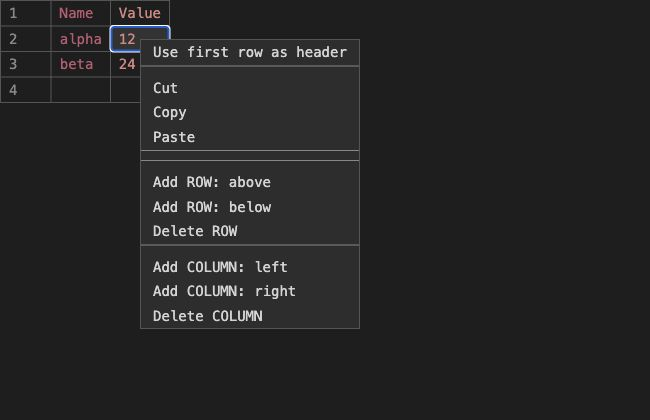
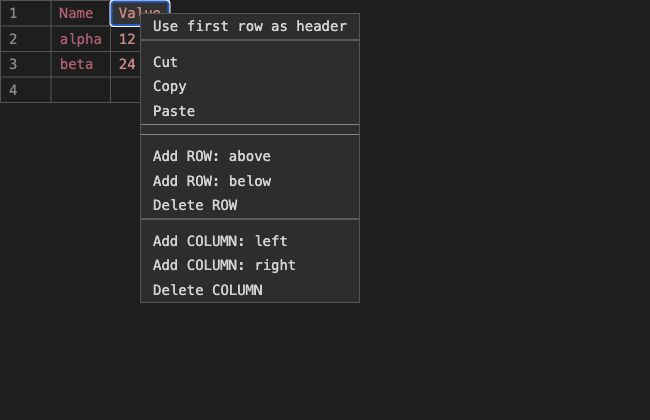
Restrict header context action to the first row

diff --git a/src/test/header-context-menu.test.ts b/src/test/header-context-menu.test.ts
@@ -45,19 +45,19 @@ async function applyHeader(host: Host, view: View, message: unknown) {
 describe('File header context action', () => {
   for (const separator of [',', '\t']) {
     for (const header of [false, true]) {
-      it(`toggles the file header from either column (${JSON.stringify(separator)}, header ${header})`, async () => {
+      it(`toggles the file header from either first-row column (${JSON.stringify(separator)}, header ${header})`, async () => {
         for (const column of [0, 1]) {
           const host = await createEditorHarness({ rows, separator, header });
           const view = createWebviewDom(host.panel.webview.html);
           const source = host.document.getText();
           const version = host.document.version;
           try {
-            await applyHeader(host, view, chooseHeader(view, 1, column, !header));
+            await applyHeader(host, view, chooseHeader(view, 0, column, !header));
             const next = createWebviewDom(host.panel.webview.html);
             try {
               assert.strictEqual(!!next.window.document.querySelector('thead'), !header);
               const reverse = header ? 'Use first row as header' : 'Treat first row as data';
-              assert.ok(openMenu(next, 1, column).some(item => item.textContent === reverse));
+              assert.ok(openMenu(next, 0, column).some(item => item.textContent === reverse));
             } finally { next.close(); }
             assert.strictEqual(host.document.getText(), source);
             assert.strictEqual(host.document.version, version);
@@ -79,7 +79,7 @@ describe('File header context action', () => {
       const view = createWebviewDom(host.panel.webview.html);
       try {
         assert.strictEqual(view.window.document.querySelector('thead'), null);
-        await applyHeader(host, view, chooseHeader(view, 1, 1, true));
+        await applyHeader(host, view, chooseHeader(view, 0, 1, true));
         assert.strictEqual(CsvEditorProvider.getHeaderForUri(context, host.document.uri as any), true);
         assert.strictEqual(CsvEditorProvider.hasHeaderOverride(context, host.document.uri as any), true);
         const next = createWebviewDom(host.panel.webview.html);
@@ -93,7 +93,7 @@ describe('File header context action', () => {
     const view = createWebviewDom(host.panel.webview.html);
     const other = await createEditorHarness({ rows, separator: '\t', header: true });
     try {
-      await applyHeader(host, view, chooseHeader(view, 1, 1, false));
+      await applyHeader(host, view, chooseHeader(view, 0, 1, false));
       const next = createWebviewDom(host.panel.webview.html);
       const untouched = createWebviewDom(other.panel.webview.html);
       try {
@@ -163,13 +163,39 @@ describe('File header context action', () => {
     } finally { view.close(); }
   });
 
-  it('offers the same action on header, body, serial-index and append cells', async () => {
+  it('keeps the first displayed row actionable when hidden metadata exceeds the file length', async () => {
     const host = await createEditorHarness({ rows, header: true });
-    const view = createWebviewDom(host.panel.webview.html);
+    const initial = createWebviewDom(host.panel.webview.html);
+    const controller = CsvEditorProvider.getActiveProvider()!;
+    const context = (controller as any).context;
     try {
-      for (const [row, column] of [[0, 1], [1, 0], [1, -1], [3, 1]]) {
-        assert.ok(openMenu(view, row, column).some(item => item.textContent === 'Treat first row as data'));
-      }
-    } finally { view.close(); }
+      await CsvEditorProvider.setHiddenRowsForUri(context, host.document.uri as any, 10);
+      controller.refresh();
+      await finishRefresh(host, initial);
+      const view = createWebviewDom(host.panel.webview.html);
+      try {
+        await applyHeader(host, view, chooseHeader(view, rows.length, 0, false));
+        assert.strictEqual(CsvEditorProvider.getHeaderForUri(context, host.document.uri as any), false);
+        assert.deepStrictEqual(host.rows(), rows);
+      } finally { view.close(); }
+    } finally { initial.close(); }
+  });
+
+  it('only offers the header action on first-row cells, with headers on or off', async () => {
+    for (const header of [true, false]) {
+      const host = await createEditorHarness({ rows, header });
+      const view = createWebviewDom(host.panel.webview.html);
+      try {
+        const label = header ? 'Treat first row as data' : 'Use first row as header';
+        for (const column of [0, 1]) {
+          assert.ok(openMenu(view, 0, column).some(item => item.textContent === label));
+        }
+        for (const [row, column] of [[1, 0], [1, -1], [2, 1], [3, 1]]) {
+          const items = openMenu(view, row, column);
+          assert.ok(!items.some(item => item.textContent === label));
+          assert.ok(items.some(item => item.textContent === 'Copy'), 'later cells retain normal context actions');
+        }
+      } finally { view.close(); }
+    }
   });
 });

diff --git a/src/CsvEditorProvider.ts b/src/CsvEditorProvider.ts
@@ -1462,6 +1462,7 @@ class CsvEditorController {
       nextChunkStart,
       hasRemoteChunks,
       headerEnabled: treatHeader,
+      firstVisibleRow: Math.min(Math.max(0, hiddenRows), data.length),
       mouseWheelZoomEnabled,
       mouseWheelZoomInvert
     });
@@ -1715,10 +1716,11 @@ class CsvEditorController {
     nextChunkStart: number;
     hasRemoteChunks: boolean;
     headerEnabled: boolean;
+    firstVisibleRow: number;
     mouseWheelZoomEnabled: boolean;
     mouseWheelZoomInvert: boolean;
   }): string {
-    const { webview, nonce, fontFamily, fontSize, cellPadding, separator, tableHtml, chunksJson, extraColumnColorCss, nextChunkStart, hasRemoteChunks, headerEnabled, mouseWheelZoomEnabled, mouseWheelZoomInvert } = args;
+    const { webview, nonce, fontFamily, fontSize, cellPadding, separator, tableHtml, chunksJson, extraColumnColorCss, nextChunkStart, hasRemoteChunks, headerEnabled, firstVisibleRow, mouseWheelZoomEnabled, mouseWheelZoomInvert } = args;
     const isDark = vscode.window.activeColorTheme.kind === vscode.ColorThemeKind.Dark;
     // Build script URI using file path for compatibility (older APIs may lack Uri.joinPath)
     const scriptUri = webview.asWebviewUri(
@@ -1930,7 +1932,7 @@ class CsvEditorController {
     </style>
   </head>
   <body>
-    <div id="csv-root" class="table-container" data-headerenabled="${headerEnabled ? '1' : '0'}" data-sepcode="${sepCode}" data-fontsize="${fontSize}" data-wheelzoomenabled="${mouseWheelZoomEnabled ? '1' : '0'}" data-wheelzoominvert="${mouseWheelZoomInvert ? '1' : '0'}" data-nextchunkstart="${nextChunkStart >= 0 ? nextChunkStart : ''}" data-hasmorechunks="${hasRemoteChunks ? '1' : '0'}">
+    <div id="csv-root" class="table-container" data-firstrow="${firstVisibleRow}" data-headerenabled="${headerEnabled ? '1' : '0'}" data-sepcode="${sepCode}" data-fontsize="${fontSize}" data-wheelzoomenabled="${mouseWheelZoomEnabled ? '1' : '0'}" data-wheelzoominvert="${mouseWheelZoomInvert ? '1' : '0'}" data-nextchunkstart="${nextChunkStart >= 0 ? nextChunkStart : ''}" data-hasmorechunks="${hasRemoteChunks ? '1' : '0'}">
       ${tableHtml}
     </div>
 

diff --git a/media/main.js b/media/main.js
@@ -387,11 +387,13 @@ const showContextMenu = (x, y, row, col) => {
     d.style.margin = '1px 0';
     contextMenu.appendChild(d);
   };
-  item(headerEnabled ? 'Treat first row as data' : 'Use first row as header', () => {
-    persistState();
-    vscode.postMessage({ type: 'setHeader', enabled: !headerEnabled });
-  });
-  divider();
+  if (row === Number(root?.dataset?.firstrow)) {
+    item(headerEnabled ? 'Treat first row as data' : 'Use first row as header', () => {
+      persistState();
+      vscode.postMessage({ type: 'setHeader', enabled: !headerEnabled });
+    });
+    divider();
+  }
   item('Cut', () => copySelectionToClipboard(true));
   item('Copy', () => copySelectionToClipboard());
   item('Paste', () => pasteFromClipboard());

diff --git a/README.md b/README.md
@@ -31,7 +31,7 @@ Working with CSV files shouldn’t be a chore. With CSV, you get:
 - **Interactive Editing:** Two modes — type to start a quick edit, or press Enter/double‑click for detail edit. Changes commit to the document when focus leaves the cell or CSV view; unsaved changes remain visible when you switch tabs.
 - **Smart Resizing:** Automatic calculation of column widths for improved readability.
 - **Dynamic Color Coding:** Visual cues based on data type help you quickly identify numbers, dates, booleans, and more (with opt‑in cool palette and theme-foreground mode settings).
-- **Sticky Headers:** Keep column titles in view as you scroll through large datasets. Right-click any cell and choose **Use first row as header** or **Treat first row as data** to toggle the header for that file. With leading metadata rows hidden, this applies to the first visible row; the CSV contents stay unchanged.
+- **Sticky Headers:** Keep column titles in view as you scroll through large datasets. Right-click a cell in the first visible row and choose **Use first row as header** or **Treat first row as data** to toggle the header for that file. With leading metadata rows hidden, this applies to the first visible row; the CSV contents stay unchanged.
 - **Enhanced Keyboard Navigation:** Navigate cells with arrows and Tab/Shift+Tab; quick edits can commit with arrow keys; `Ctrl/Cmd + A` selects all; `Ctrl/Cmd + C` copies selection.
 - **Advanced Multi-Cell Selection:** Easily select and copy blocks of data, then paste them elsewhere as properly formatted CSV.
 - **Add/Delete Columns:** Right-click any cell to add a column left or right, or remove the selected column.
